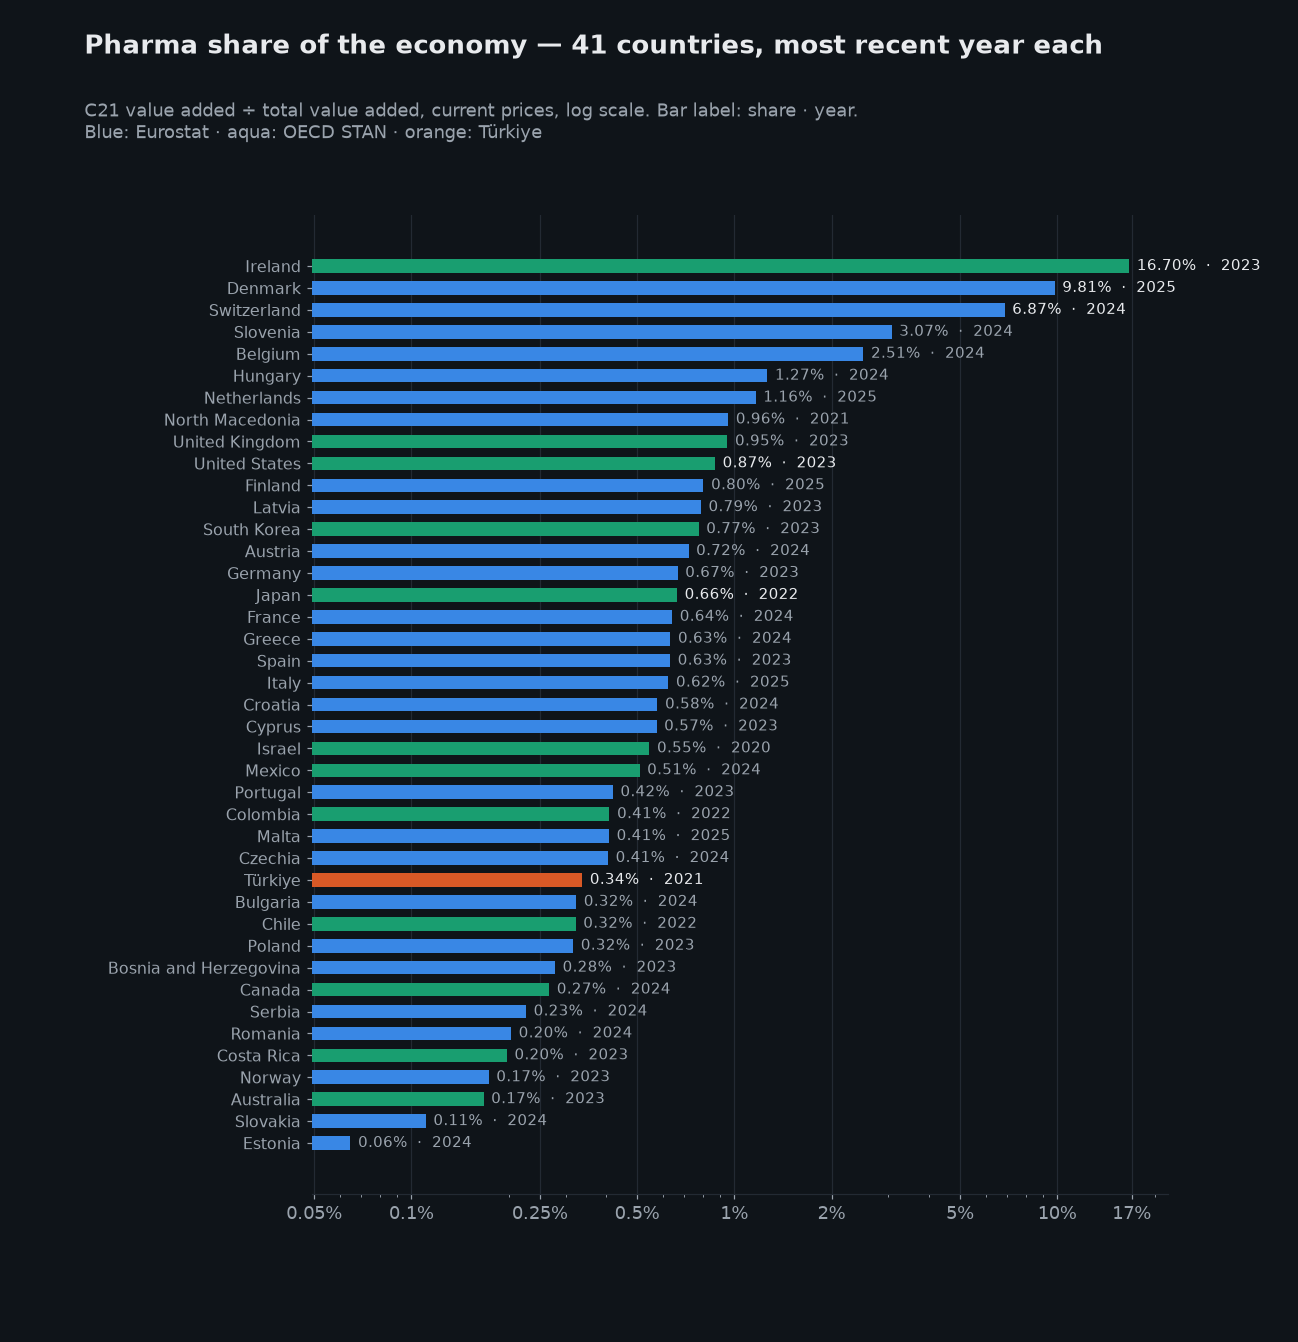
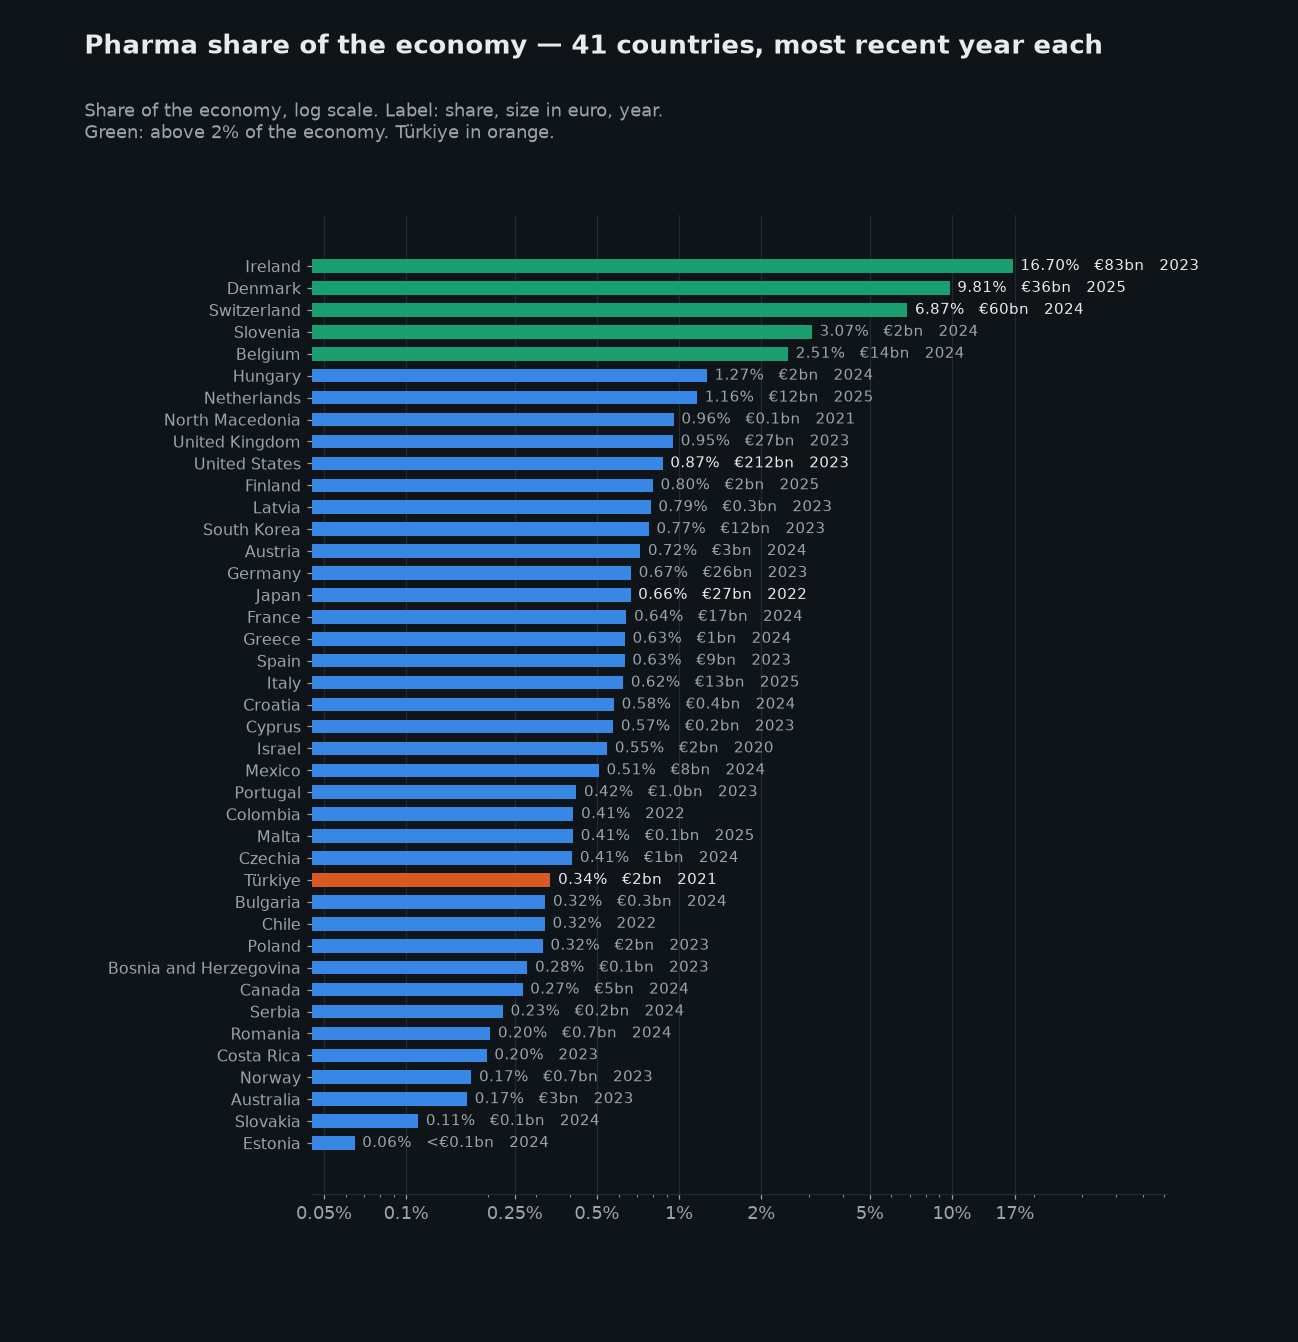
Restore the 41-country ranking chart and rewrite section 4 in plain terms
- puts back the ranked bar chart of all 41 countries, which the rewrite
  dropped. It is the most legible single view in the set, and it now carries
  the absolute euro figure on every bar alongside the share and the year, so
  one chart answers both 'how concentrated' and 'how big'
- colour on that chart now marks the argument (green above 2%) rather than
  the data source, and values under EUR0.05bn read '<EUR0.1bn' instead of
  'EUR0.0bn'
- rewrites section 4, which explained gross national income before saying
  what it measures. It now defines the idea in one sentence (GDP counts what
  is produced, national income counts what residents earn) and states the
  result concretely: of every EUR100 generated in Ireland about EUR75 stays;
  in Denmark residents earn EUR103

diff --git a/pharma-gdp-share.html b/pharma-gdp-share.html
@@ -190,9 +190,15 @@
           6.9%, Belgium 2.5%</strong>. All four are small. None of them is a bigger producer
           than the United States, Germany or Japan &mdash; they are simply more dependent.
         </p>
+        <div class="chart">
+          <img src="assets/pharma-study/05_world_ranking.png" alt="Horizontal bar chart of 41 countries ranked by pharmaceutical share of the economy on a log scale. Ireland 16.70% and 83 billion euro, Denmark 9.81% and 36 billion, Switzerland 6.87% and 60 billion, Slovenia 3.07%, Belgium 2.51%. The United States is tenth at 0.87% despite producing 212 billion euro. Most countries fall below 1%.">
+          <div class="chart-cap">All 41 countries, each at its most recent year. Every bar shows the share, the absolute size in euro, and the year. Green: above 2% of the economy.</div>
+        </div>
+
         <p>
-          The clearest way to see it is to plot how much a country produces against how much of
-          its economy that represents. The two are barely related.
+          Notice the United States, tenth on this list at 0.87% &mdash; while producing
+          <strong>&euro;212bn</strong>, more than twice Ireland. Share and size are not the same
+          question. Plotting them together separates them:
         </p>
 
         <div class="chart">
@@ -234,28 +240,44 @@
         </p>
 
         <!-- ================= 4 ================= -->
-        <h2>4. Who keeps the money? <span class="accent">&mdash; not always the country that makes it</span></h2>
+        <h2>4. Who keeps the money? <span class="accent">&mdash; not the country that makes it</span></h2>
         <p>
-          Ireland genuinely manufactures: it imports almost none of the ingredient it exports.
-          But <strong>83% of it ships to the United States</strong>, and the profit follows the
-          owner, not the factory.
+          Ireland really does manufacture. It imports almost none of the ingredient it exports,
+          so this is production, not repackaging. But <strong>83% of it ships to the United
+          States</strong>, and the profit belongs to whoever owns the factory &mdash; not to the
+          country hosting it.
         </p>
         <p>
-          Gross national income measures this. Ireland's is <strong>75% of its GDP</strong> &mdash;
-          about &euro;139bn a year of income generated in Ireland belongs to owners abroad.
-          Denmark's is <strong>102.5%</strong>: it receives more from its companies abroad than
-          foreign owners take out.
+          There is a standard measure for this. GDP counts what is <em>produced</em> inside a
+          country. National income counts what its residents actually <em>earn</em>. When a
+          plant is foreign-owned, the output lands in the first number and the profit leaves
+          before the second.
         </p>
+        <p>The gap is large:</p>
+        <ul class="bullets">
+          <li><strong>Ireland</strong> &mdash; for every &euro;100 of income generated inside the
+            country, about <strong>&euro;75 stays</strong>. The other &euro;25 belongs to owners
+            abroad, roughly &euro;139bn a year.</li>
+          <li><strong>Denmark</strong> &mdash; for every &euro;100 generated at home, Danish
+            residents earn about <strong>&euro;103</strong>. Danish companies bring in more from
+            their operations abroad than foreign owners take out.</li>
+        </ul>
 
         <div class="chart">
-          <img src="assets/pharma-study/10_income_vs_production.png" alt="Gross national income as a percentage of GDP. Ireland 75 percent and Luxembourg 65 percent sit well below the 100 percent line; Denmark 103 percent and Germany 104 percent sit above it.">
-          <div class="chart-cap">Below 100%: income earned in the country leaves. Above: the country's own firms earn more abroad than foreigners earn inside it.</div>
+          <img src="assets/pharma-study/10_income_vs_production.png" alt="National income as a percentage of GDP. Ireland 75 percent and Luxembourg 65 percent sit well below the 100 percent line, meaning income leaves. Denmark 103 percent and Germany 104 percent sit above it.">
+          <div class="chart-cap">Below the line: more is produced in the country than its residents earn &mdash; the difference goes to foreign owners. Above the line: the country's own firms earn more abroad than foreigners earn inside it.</div>
         </div>
 
         <div class="pullquote orange">
-          Ireland is where medicine is <em>manufactured</em>. Denmark is where medicine is
-          <em>owned</em>. That difference decides who actually gets richer.
+          Ireland is where medicine is <em>made</em>. Denmark is where medicine is <em>owned</em>.
+          That is the difference between hosting an industry and having one.
         </div>
+
+        <p class="dim">
+          One limit: this gap covers all foreign-owned activity in Ireland &mdash; pharmaceuticals,
+          technology and aircraft leasing together. It shows the direction of the money, not a
+          pharmaceutical-only figure.
+        </p>
 
         <!-- ================= WHAT IT MEANS ================= -->
         <div class="recs">

diff --git a/scripts/pharma_share_charts.py b/scripts/pharma_share_charts.py
@@ -240,23 +240,39 @@ def chart_world_ranking():
     fig.subplots_adjust(left=0.24, top=0.88)
     names = [f"{v[0]}" for _, v in rows]
     vals = [v[2] for _, v in rows]
-    colors = [ORANGE if g in ("TUR",) else
-              (AQUA if v[3] == "STAN" else BLUE) for g, v in rows]
+    # colour carries the argument, not the data source
+    colors = [ORANGE if g == "TUR" else (AQUA if v[2] >= 2 else BLUE)
+              for g, v in rows]
     bars = ax.barh(names, vals, color=colors, height=0.62, zorder=3)
+    # absolute size alongside the share, so one chart answers both questions
+    import sys as _sys
+    _sys.path.insert(0, os.path.join(ROOT, "scripts"))
+    from pharma_table import rows as _rows
+    EUR = {d["geo"]: d["eur"] for d in _rows()}
     for (g, v), b in zip(rows, bars):
-        ax.annotate(f"{v[2]:.2f}%  ·  {v[1]}",
-                    (v[2], b.get_y() + b.get_height() / 2),
+        e = EUR.get(g)
+        if e is None:
+            money = ""
+        elif e >= 1:
+            money = f"   €{e:,.0f}bn"
+        elif e >= 0.05:
+            money = f"   €{e:.1f}bn"
+        else:
+            money = "   <€0.1bn"
+        lab = f"{v[2]:.2f}%{money}   {v[1]}"
+        ax.annotate(lab, (v[2], b.get_y() + b.get_height() / 2),
                     xytext=(5, 0), textcoords="offset points",
                     color=INK if g in ("DK", "CH", "IRL", "USA", "JPN", "TUR") else INK2,
                     fontsize=10, va="center")
     ax.set_xscale("log")
+    ax.set_xlim(0.045, 62)
     ax.set_xticks([0.05, 0.1, 0.25, 0.5, 1, 2, 5, 10, 17])
     ax.xaxis.set_major_formatter(FuncFormatter(lambda v, _: f"{v:g}%"))
     ax.grid(axis="y", visible=False)
     ax.tick_params(axis="y", labelsize=10.5)
     title(fig, "Pharma share of the economy — 41 countries, most recent year each",
-          "C21 value added ÷ total value added, current prices, log scale. "
-          "Bar label: share · year.\nBlue: Eurostat · aqua: OECD STAN · orange: Türkiye")
+          "Share of the economy, log scale. Label: share, size in euro, year.\n"
+          "Green: above 2% of the economy. Türkiye in orange.")
     save(fig, "05_world_ranking.png")
 
 
